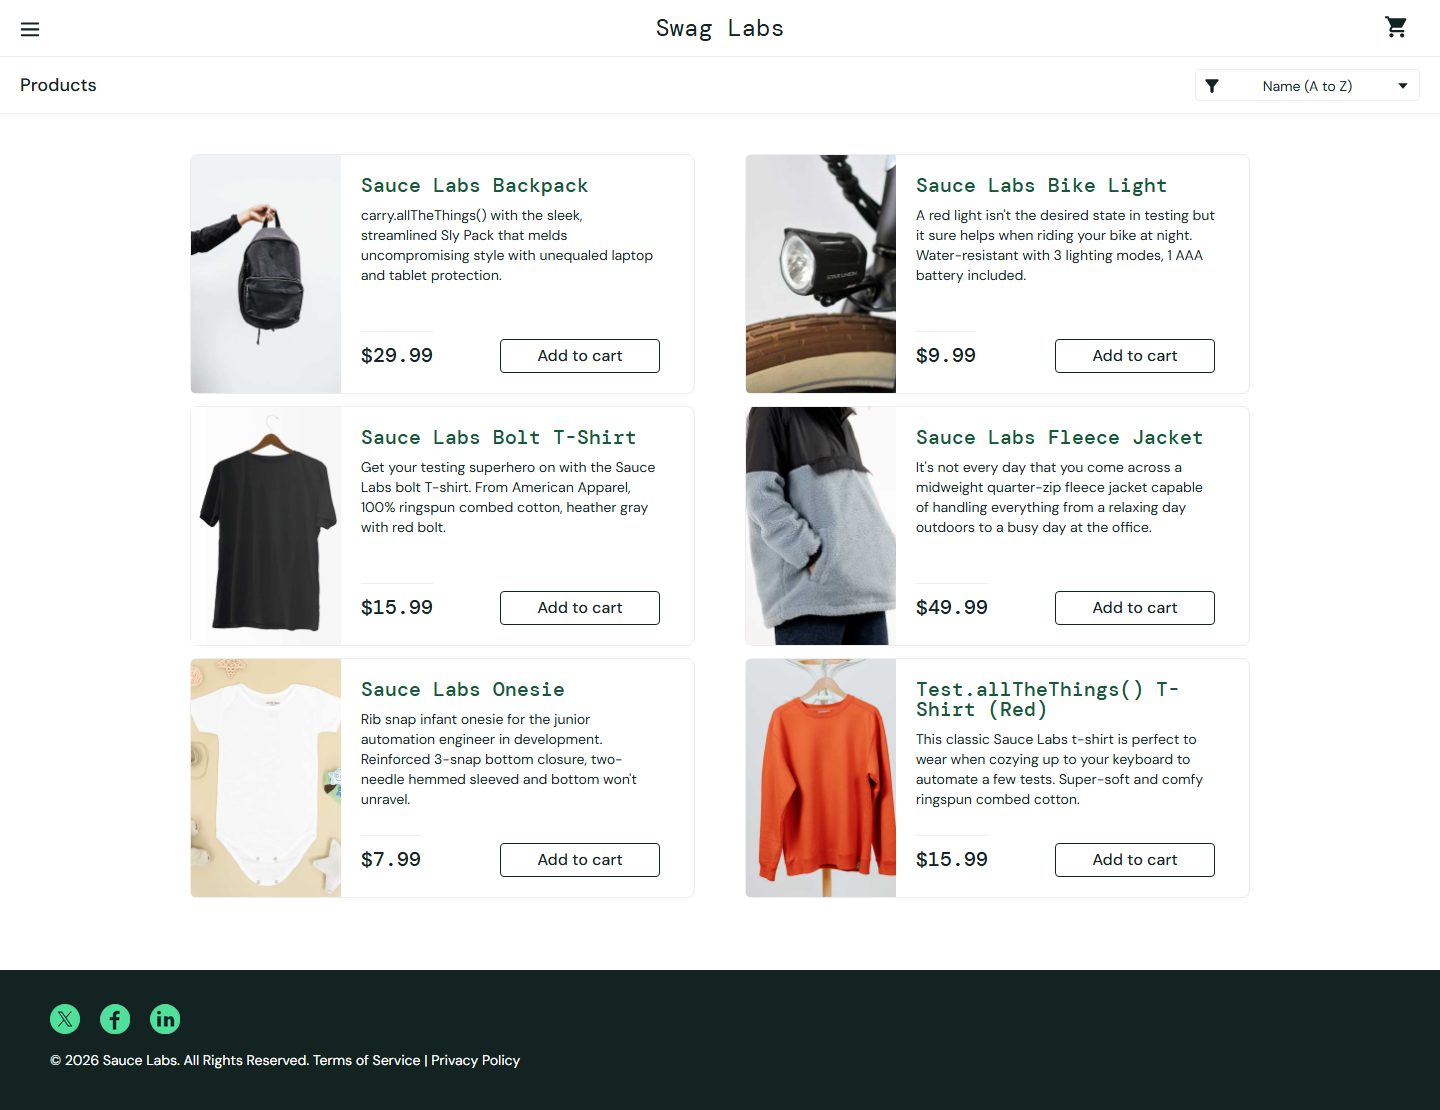
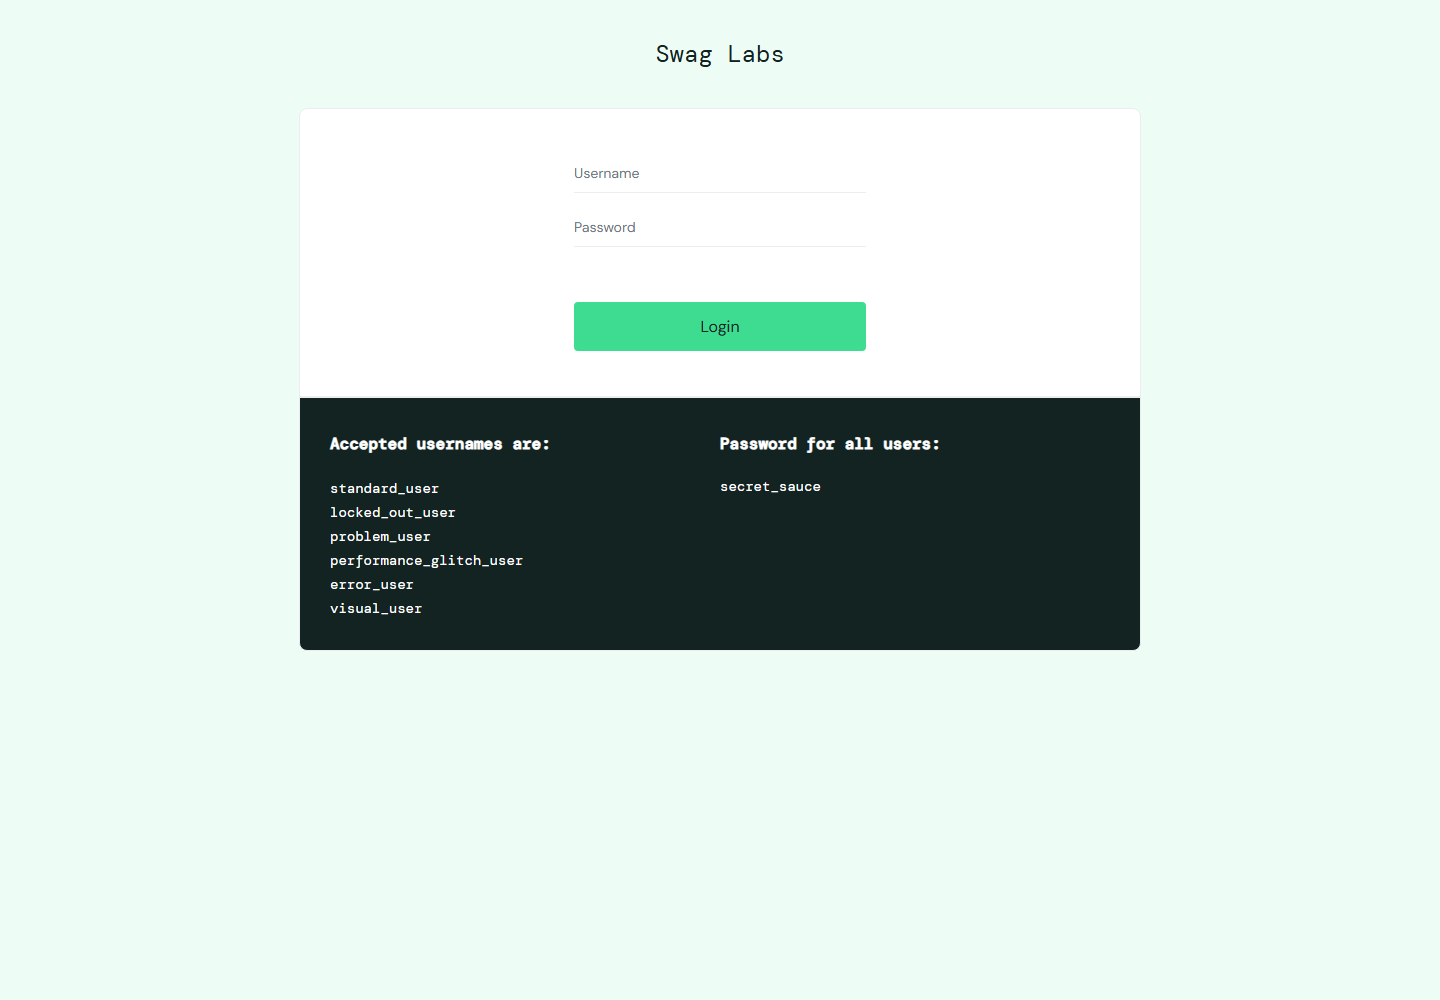
Add login screenshot to ExtentReports evidence

diff --git a/reports/html-report/index.html b/reports/html-report/index.html
@@ -46,4 +46,4 @@ Error generating stack: `+e.message+`
     <div id='root'></div>
   </body>
 </html>
[2 lines of base64/hex data omitted]

diff --git a/reports/extent-report.html b/reports/extent-report.html
@@ -35,7 +35,7 @@
 <a href="#"><span class="badge badge-primary">Login and End-to-End Checkout</span></a>
 </li>
 <li class="m-r-10">
-<a href="#"><span class="badge badge-primary">Oct 31, 2026 07:22:36 pm</span></a>
+<a href="#"><span class="badge badge-primary">Oct 31, 2026 07:25:43 pm</span></a>
 </li>
 </ul>
 </div>
@@ -81,7 +81,7 @@
           <div class="test-detail">
             <p class="name">TC-LOGIN-001 | Standard user can log in successfully</p>
             <p class="text-sm">
-              <span>19.22.36</span> / <span>00:00:00:014</span>
+              <span>19.25.43</span> / <span>00:00:00:016</span>
               <span class="badge pass-bg log float-right">Pass</span>
             </p>
           </div>
@@ -90,9 +90,9 @@
 <div class="p-v-10">
 <div class="info">
 <h5 class="test-status text-pass">TC-LOGIN-001 | Standard user can log in successfully</h5>
-<span class='badge badge-success'>10.31.2026 19.22.36</span>
-<span class='badge badge-danger'>10.31.2026 19.22.36</span>
-<span class='badge badge-default'>00:00:00:014</span>
+<span class='badge badge-success'>10.31.2026 19.25.43</span>
+<span class='badge badge-danger'>10.31.2026 19.25.43</span>
+<span class='badge badge-default'>00:00:00:016</span>
 &middot; <span class='uri-anchor badge badge-default'>#test-id=1</span>
 <span title='Skip to the next failed step' class='badge badge-danger pointer float-right ne ml-1'><i class="fa fa-fast-forward"></i></span>
 <span title='Collapse all nodes' class='badge badge-default pointer float-right ct ml-1'><i class="fa fa-compress"></i></span>
@@ -105,27 +105,42 @@
   <tbody>
       <tr class="event-row">
         <td><span class="badge log pass-bg">Pass</span></td>
-        <td>19.22.36</td>
+        <td>19.25.43</td>
         <td>
           Test pass
         </td>
       </tr>
       <tr class="event-row">
         <td><span class="badge log info-bg">Info</span></td>
-        <td>19.22.36</td>
+        <td>19.25.43</td>
         <td>
-          Duration: 5880 ms
+          Duration: 3554 ms
         </td>
       </tr>
       <tr class="event-row">
         <td><span class="badge log info-bg">Info</span></td>
-        <td>19.22.36</td>
+        <td>19.25.43</td>
+        <td>
+          login-page
+    <div class="row mb-3"><div class="col-md-3">
+    
+
+<img data-featherlight='extent-assets/TC-LOGIN-001-Standard-user-can-log-in-successfully-1.png' src="extent-assets/TC-LOGIN-001-Standard-user-can-log-in-successfully-1.png">
+  
+    
+
+    </div></div>
+        </td>
+      </tr>
+      <tr class="event-row">
+        <td><span class="badge log info-bg">Info</span></td>
+        <td>19.25.43</td>
         <td>
           login-products-page
     <div class="row mb-3"><div class="col-md-3">
     
 
-<img data-featherlight='extent-assets/TC-LOGIN-001-Standard-user-can-log-in-successfully-1.png' src="extent-assets/TC-LOGIN-001-Standard-user-can-log-in-successfully-1.png">
+<img data-featherlight='extent-assets/TC-LOGIN-001-Standard-user-can-log-in-successfully-2.png' src="extent-assets/TC-LOGIN-001-Standard-user-can-log-in-successfully-2.png">
   
     
 
@@ -144,7 +159,7 @@
           <div class="test-detail">
             <p class="name">TC-CHECKOUT-001 | Standard user completes checkout for Sauce Labs Onesie</p>
             <p class="text-sm">
-              <span>19.22.36</span> / <span>00:00:00:002</span>
+              <span>19.25.43</span> / <span>00:00:00:001</span>
               <span class="badge pass-bg log float-right">Pass</span>
             </p>
           </div>
@@ -153,9 +168,9 @@
 <div class="p-v-10">
 <div class="info">
 <h5 class="test-status text-pass">TC-CHECKOUT-001 | Standard user completes checkout for Sauce Labs Onesie</h5>
-<span class='badge badge-success'>10.31.2026 19.22.36</span>
-<span class='badge badge-danger'>10.31.2026 19.22.36</span>
-<span class='badge badge-default'>00:00:00:002</span>
+<span class='badge badge-success'>10.31.2026 19.25.43</span>
+<span class='badge badge-danger'>10.31.2026 19.25.43</span>
+<span class='badge badge-default'>00:00:00:001</span>
 &middot; <span class='uri-anchor badge badge-default'>#test-id=2</span>
 <span title='Skip to the next failed step' class='badge badge-danger pointer float-right ne ml-1'><i class="fa fa-fast-forward"></i></span>
 <span title='Collapse all nodes' class='badge badge-default pointer float-right ct ml-1'><i class="fa fa-compress"></i></span>
@@ -168,21 +183,21 @@
   <tbody>
       <tr class="event-row">
         <td><span class="badge log pass-bg">Pass</span></td>
-        <td>19.22.36</td>
+        <td>19.25.43</td>
         <td>
           Test pass
         </td>
       </tr>
       <tr class="event-row">
         <td><span class="badge log info-bg">Info</span></td>
-        <td>19.22.36</td>
+        <td>19.25.43</td>
         <td>
-          Duration: 2668 ms
+          Duration: 4400 ms
         </td>
       </tr>
       <tr class="event-row">
         <td><span class="badge log info-bg">Info</span></td>
-        <td>19.22.36</td>
+        <td>19.25.43</td>
         <td>
           product-added-to-cart
     <div class="row mb-3"><div class="col-md-3">
@@ -197,7 +212,7 @@
       </tr>
       <tr class="event-row">
         <td><span class="badge log info-bg">Info</span></td>
-        <td>19.22.36</td>
+        <td>19.25.43</td>
         <td>
           cart-item-verified
     <div class="row mb-3"><div class="col-md-3">
@@ -212,7 +227,7 @@
       </tr>
       <tr class="event-row">
         <td><span class="badge log info-bg">Info</span></td>
-        <td>19.22.36</td>
+        <td>19.25.43</td>
         <td>
           checkout-information
     <div class="row mb-3"><div class="col-md-3">
@@ -227,7 +242,7 @@
       </tr>
       <tr class="event-row">
         <td><span class="badge log info-bg">Info</span></td>
-        <td>19.22.36</td>
+        <td>19.25.43</td>
         <td>
           checkout-order-summary
     <div class="row mb-3"><div class="col-md-3">
@@ -242,7 +257,7 @@
       </tr>
       <tr class="event-row">
         <td><span class="badge log info-bg">Info</span></td>
-        <td>19.22.36</td>
+        <td>19.25.43</td>
         <td>
           checkout-completed
     <div class="row mb-3"><div class="col-md-3">
@@ -274,13 +289,13 @@
 <div class="col-md-3">
 <div class="card"><div class="card-body">
 <p class="m-b-0">Started</p>
-<h3>Oct 31, 2026 07:22:36 pm</h3>
+<h3>Oct 31, 2026 07:25:43 pm</h3>
 </div></div>
 </div>
 <div class="col-md-3">
 <div class="card"><div class="card-body">
 <p class="m-b-0">Ended</p>
-<h3>Oct 31, 2026 07:22:36 pm</h3>
+<h3>Oct 31, 2026 07:25:43 pm</h3>
 </div></div>
 </div>
 <div class="col-md-3">
@@ -331,10 +346,10 @@
 </div>
 </div>
 <div class="card-footer">
-<div><small data-tooltip='20%'><b>2</b> events passed</small></div>
+<div><small data-tooltip='18%'><b>2</b> events passed</small></div>
 <div>
 <small data-tooltip='0%'><b>0</b> events failed,
-<b data-tooltip='%'>8</b> others
+<b data-tooltip='%'>9</b> others
 </small>
 </div>
 </div>
@@ -350,7 +365,7 @@
 </div></div>
 <script>
 var timeline = {
-"TC-LOGIN-001 | Standard user can log in successfully":0.014,"TC-CHECKOUT-001 | Standard user completes checkout for Sauce Labs Onesie":0.002
+"TC-LOGIN-001 | Standard user can log in successfully":0.016,"TC-CHECKOUT-001 | Standard user completes checkout for Sauce Labs Onesie":0.001
 };
 </script>
 <div class="row">
@@ -402,7 +417,7 @@ passEvents: 2,
 failEvents: 0,
 warningEvents: 0,
 skipEvents: 0,
-infoEvents: 8
+infoEvents: 9
 };
 </script>        </div>
       </div>

diff --git a/tests/saucedemo-checkout.spec.js b/tests/saucedemo-checkout.spec.js
@@ -12,6 +12,7 @@ test('TC-LOGIN-001 | Standard user can log in successfully', async ({
     await loginPage.open();
     await expect(loginPage.loginButton).toBeVisible();
   });
+  await captureEvidence(page, testInfo, 'login-page');
 
   await test.step('Log in with the standard user account', async () => {
     await loginPage.login(credentials.username, credentials.password);
